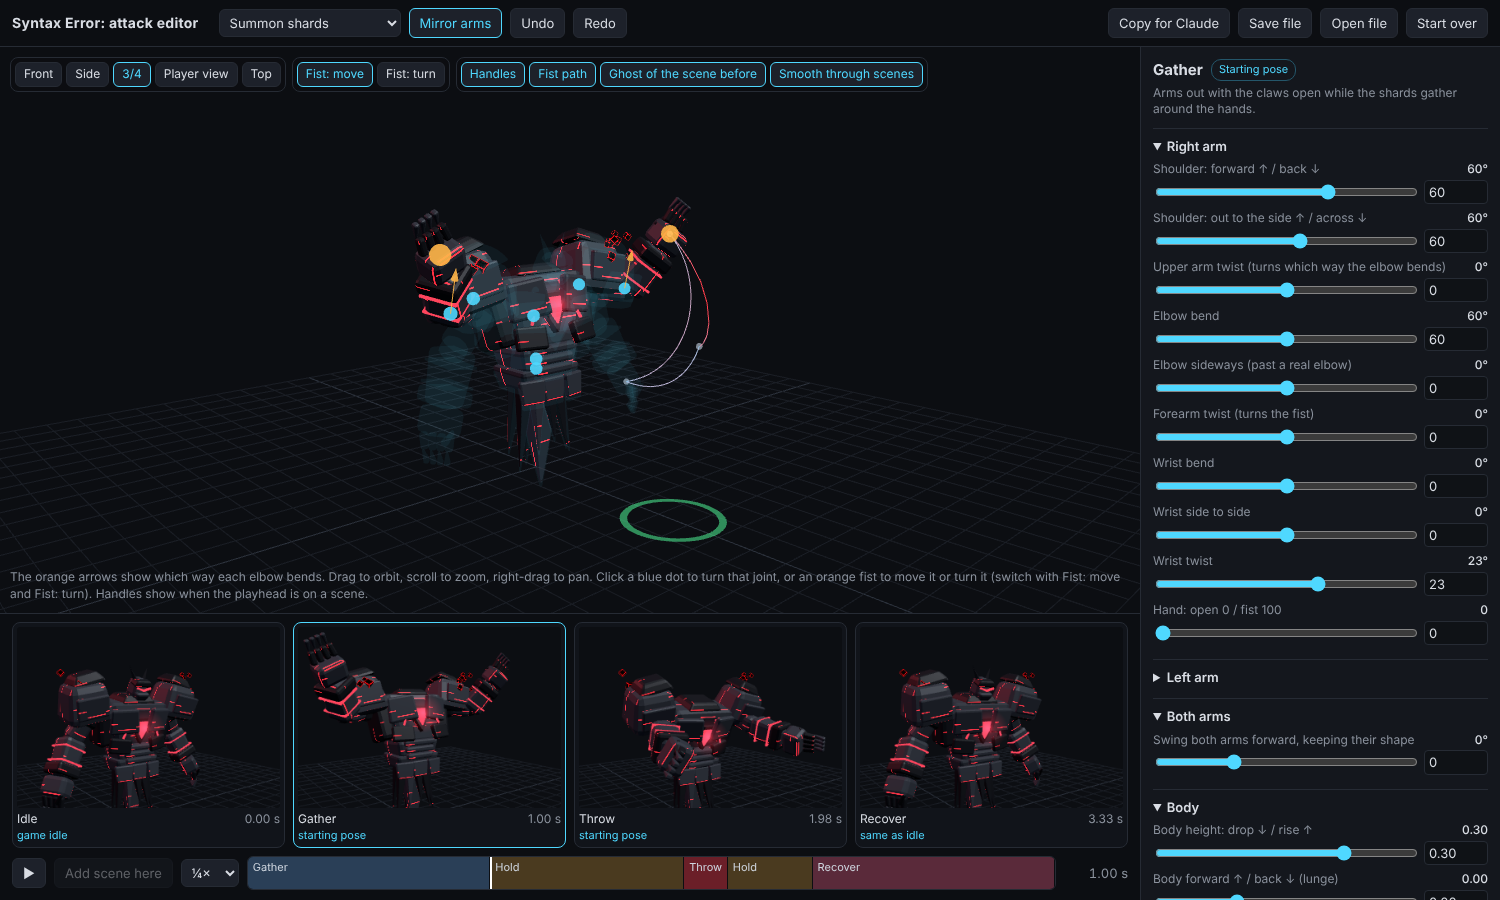
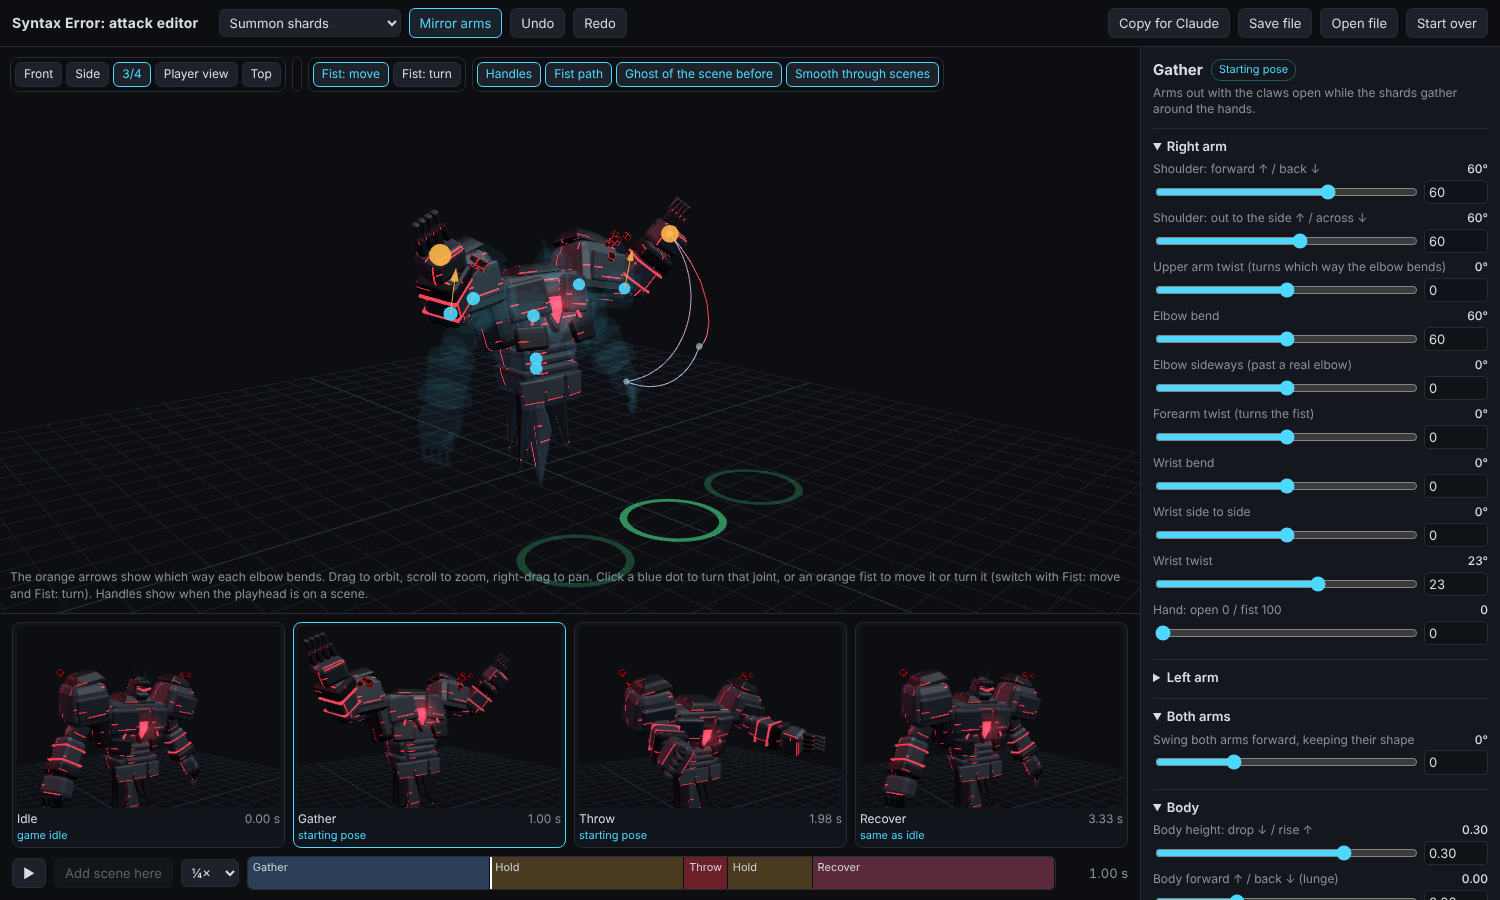
Attack editor: arm cannon is one shot, aimed higher, with Aim at
The cannon charges and fires once per attack. The game turns the whole boss toward the
group it picked; Aim at (your left, middle, your right) previews that, with the side
groups' rings in the view. The aim is raised (shoulder 63, across 38) so the shot meets
the raid about 2.5 units up instead of the floor short of it, and a dashed line shows
where it goes.

Claude-Session: https://claude.ai/code/session_01MQWzxTE7u1eeEzMzyN6zb9

diff --git a/tools/pose-editor/index.html b/tools/pose-editor/index.html
@@ -13,6 +13,7 @@
 <style>
   :root { --bg: #0c0e12; --panel: #14171d; --line: #262b34; --ink: #d9dde4; --dim: #8a919c; --red: #ff3a46; --cyan: #4fd8ff; --amber: #ffb547; --green: #48e08a; }
   * { box-sizing: border-box; }
+  [hidden] { display: none !important; }
   html, body { margin: 0; height: 100%; background: var(--bg); color: var(--ink); font: 13px/1.4 ui-sans-serif, system-ui, "Segoe UI", sans-serif; }
   button, select, input { font: inherit; color: inherit; }
   select { background: #1d212a; border: 1px solid var(--line); border-radius: 6px; padding: 4px 6px; }
@@ -95,7 +96,8 @@
         <button data-cam="front">Front</button><button data-cam="side">Side</button><button data-cam="three">3/4</button><button data-cam="player">Player view</button><button data-cam="top">Top</button>
       </div>
       <div class="grp">
-        <button id="fMove" class="on" title="Drag the fist and the arm reaches for it">Fist: move</button><button id="fTurn" title="Turn the fist with the forearm and wrist">Fist: turn</button></div>
+        <span id="aimGrp" hidden style="display:contents"><button data-aim="-1">Aim: your left</button><button data-aim="0" class="on">Aim: middle</button><button data-aim="1">Aim: your right</button></span></div>
+      <div class="grp"><button id="fMove" class="on" title="Drag the fist and the arm reaches for it">Fist: move</button><button id="fTurn" title="Turn the fist with the forearm and wrist">Fist: turn</button></div>
       <div class="grp"><button id="tgHandles" class="on">Handles</button><button id="tgPath" class="on">Fist path</button><button id="tgGhost" class="on">Ghost of the scene before</button><button id="tgSmooth" title="One smooth curve through all the scenes, so frames between scenes follow the scenes around them">Smooth through scenes</button>
       </div>
     </div>
@@ -157,6 +159,9 @@ const grid = new THREE.GridHelper(60, 30, '#2c323c', '#1a1e25'); scene.add(grid)
 // where the raid stands, so the punch has something to land on
 const raid = new THREE.Mesh(new THREE.RingGeometry(2.4, 2.8, 48), new THREE.MeshBasicMaterial({ color: '#48e08a', side: THREE.DoubleSide, transparent: true, opacity: 0.6 }));
 raid.rotation.x = -Math.PI / 2; raid.position.set(0, 0.03, 11); scene.add(raid);
+// the groups on your left and right, for the cannon's aim (x is to your right seen from the raid)
+const GROUP_X = 7;
+const sideRings = [-GROUP_X, GROUP_X].map(x => { const m = raid.clone(); m.material = raid.material.clone(); m.material.opacity = 0.25; m.position.x = x; scene.add(m); return m; });
 
 const camera = new THREE.PerspectiveCamera(35, 1, 0.1, 400);
 const orbit = new OrbitControls(camera, renderer.domElement);
@@ -358,29 +363,24 @@ const ATTACKS = {
     }),
   },
   cannon: {
-    name: 'Arm cannon', main: 'charge', mirror: false, orb: true,
+    name: 'Arm cannon', main: 'charge', mirror: false, orb: true, aim: true,
+    // one shot per attack: the game turns the whole boss toward the group it picked (Aim at in the
+    // view previews that) and plays the same charge and shot
     scenes: [
       { id: 'idle', name: 'Idle', note: 'The resting pose between attacks, shared by all four. Changing it here changes it for every attack.' },
-      { id: 'charge', name: 'Charge: middle', note: 'Aims low at the middle group and charges the orb at the hand.' },
-      { id: 'fire', name: 'Fire', note: 'The shot at the middle group and its recoil. The auto side shots take the same recoil from their own aim.' },
-      { id: 'aimL', name: 'Aim: your left', note: 'Turns to the group on your left (seen from the player\'s side) and charges again.' },
-      { id: 'fireL', name: 'Fire: your left', note: 'The shot at your left group. Auto is the left aim with the same recoil as Fire.' },
-      { id: 'aimR', name: 'Aim: your right', note: 'Turns to the group on your right and charges again.' },
-      { id: 'fireR', name: 'Fire: your right', note: 'The shot at your right group. Auto is the right aim with the same recoil as Fire.' },
+      { id: 'charge', name: 'Charge', note: 'Raises the cannon arm, aims at the group and charges the orb at the hand. Aim at (top of the view) turns the boss to the other groups.' },
+      { id: 'fire', name: 'Fire', note: 'The shot and its recoil.' },
       { id: 'recover', name: 'Recover', note: 'Where it ends up after the attack. Auto is the idle pose; set it by hand and the game settles back to idle from there.' },
     ],
-    segs: [['idle', 'charge', 'inOut', 'aim', 'spark'], ['charge', 'charge', 'out', 'charge', 'grow'], ['charge', 'fire', 'out3', 'shot', 'fire'], ['fire', 'aimL', 'inOut', 'turn', 'spark'], ['aimL', 'aimL', 'out', 'charge2', 'grow'], ['aimL', 'fireL', 'out3', 'shot', 'fire'], ['fireL', 'aimR', 'inOut', 'turn', 'spark'], ['aimR', 'aimR', 'out', 'charge2', 'grow'], ['aimR', 'fireR', 'out3', 'shot', 'fire'], ['fireR', 'recover', 'inOut', 'recover']],
-    segName: { aim: 'Aim', charge: 'Charge', shot: 'Fire', turn: 'Turn', charge2: 'Charge', recover: 'Recover' },
-    timing: { aim: 0.9, charge: 1.4, shot: 0.12, turn: 0.5, charge2: 0.8, recover: 1.0 },
-    timeRows: [['aim', 'Raise and aim', 0.2, 3], ['charge', 'First charge', 0.2, 6], ['shot', 'Shot and recoil', 0.04, 0.6], ['turn', 'Turn to the next group', 0.1, 2], ['charge2', 'Later charges', 0.1, 4], ['recover', 'Recover', 0.2, 2.5]],
+    segs: [['idle', 'charge', 'inOut', 'aim', 'spark'], ['charge', 'charge', 'out', 'charge', 'grow'], ['charge', 'fire', 'out3', 'shot', 'fire'], ['fire', 'fire', 'out', 'freeze'], ['fire', 'recover', 'inOut', 'recover']],
+    segName: { aim: 'Aim', charge: 'Charge', shot: 'Fire', freeze: 'Hold', recover: 'Recover' },
+    timing: { aim: 0.9, charge: 1.6, shot: 0.12, freeze: 0.4, recover: 1.0 },
+    timeRows: [['aim', 'Raise and aim', 0.2, 3], ['charge', 'Charge', 0.2, 6], ['shot', 'Shot and recoil', 0.04, 0.6], ['freeze', 'Hold after the shot', 0, 1.5], ['recover', 'Recover', 0.2, 2.5]],
     feel: { lead: 0.05 },
     defaults: () => ({
-      charge: cannonAim(50, -25, 0.3),
-      fire: sheet({ shoulderR: { flex: 62, abd: -25 }, elbowR: { flex: 10 }, ...BRACE, raw: { chest: [0.1, 0.25, 0], spine: [0.2, 0.125, 0], head: [-0.4, -0.25, 0], clawR: [-0.3, 0, 0], clawL: [0.6, 0, 0] }, hips: -0.3 }),
-      aimL: cannonAim(50, 5, 0.05),
-      aimR: cannonAim(50, -40, 0.62),
+      charge: cannonAim(63, -38, 0.3),
+      fire: sheet({ shoulderR: { flex: 75, abd: -38 }, elbowR: { flex: 10 }, ...BRACE, raw: { chest: [0.1, 0.25, 0], spine: [0.2, 0.125, 0], head: [-0.4, -0.25, 0], clawR: [-0.3, 0, 0], clawL: [0.6, 0, 0] }, hips: -0.3 }),
     }),
-    autos: { fireL: R => plus(R.aimL, R.fire, R.charge), fireR: R => plus(R.aimR, R.fire, R.charge) },
   },
   summon: {
     name: 'Summon shards', main: 'gather', mirror: true,
@@ -407,6 +407,8 @@ function useAttack(id) {
   DEF = ATTACKS[id];
   const A = store.attacks[id];
   // scenes added in the editor split a stretch of the timeline in two (A.segs replaces DEF.segs)
+  const known = new Set([...DEF.scenes.map(x => x.id), ...(A.extra || []).map(x => x.id)]);
+  if (A.segs && A.segs.some(sg => !known.has(sg[0]) || !known.has(sg[1]))) { delete A.segs; delete A.extra; delete A.segName; }
   SEGS = A.segs || DEF.segs; SEG_NAME = { ...DEF.segName, ...(A.segName || {}) };
   const labels = [...new Set(Object.values(DEF.segName))];
   SEG_COL = {}; for (const k in SEG_NAME) SEG_COL[k] = SEG_COLS[labels.indexOf(SEG_NAME[k]) % SEG_COLS.length] || SEG_COLS[0];
@@ -605,12 +607,25 @@ function poseAt(target, t, lead = state.feel.lead) {
   for (const bn in Bt) blendInto(Bt[bn], TORSO.has(bn) ? xb : xa, bn);
   if (target === kit) setOrb(xa);
   Bt.hips.position.y = S.hover + val(xb, 'hips'); Bt.hips.position.z = val(xb, 'move') || 0;
+  target.group.rotation.y = yawAt(xa);
 }
 // the cannon's orb at the right hand: a spark while aiming, growing while it charges, a flash on the shot
 const orb = new THREE.Mesh(new THREE.SphereGeometry(1, 24, 16), new THREE.MeshBasicMaterial({ color: '#ff4a64' }));
 const orbHalo = new THREE.Mesh(new THREE.SphereGeometry(1, 24, 16), new THREE.MeshBasicMaterial({ color: '#ff2040', transparent: true, opacity: 0.22, depthWrite: false }));
 orb.add(orbHalo); orbHalo.scale.setScalar(1.7); orb.userData.jcSkip = orbHalo.userData.jcSkip = true;
 orb.position.set(0, -S.fist * 1.25, 0); B.handR.add(orb); orb.visible = false;
+// where the shot goes: a line from the orb along the forearm while the cannon is up
+const aimLine = new THREE.Line(new THREE.BufferGeometry().setFromPoints([new THREE.Vector3(), new THREE.Vector3()]), new THREE.LineDashedMaterial({ color: '#ff4a64', dashSize: 0.8, gapSize: 0.5, transparent: true, opacity: 0.8 }));
+aimLine.visible = false; scene.add(aimLine);
+function updateAimLine() {
+  aimLine.visible = !!DEF.aim && orb.visible;
+  if (!aimLine.visible) return;
+  kit.group.updateMatrixWorld(true);
+  const e = new THREE.Vector3(), h = new THREE.Vector3(); B.foreR.getWorldPosition(e); orb.getWorldPosition(h);
+  const d = h.clone().sub(e).normalize(), end = h.clone().add(d.multiplyScalar(40));
+  if (end.y < 0) end.lerpVectors(h, end, h.y / (h.y - end.y));   // stop at the floor
+  aimLine.geometry.setFromPoints([h, end]); aimLine.computeLineDistances();
+}
 function setOrb(x) {
   if (!DEF.orb || !x || !x.fx) { orb.visible = false; return; }
   const r = x.fx === 'grow' ? 0.3 + 1.4 * x.fu : x.fx === 'fire' ? (x.fu < 0.3 ? 2.2 : 1.6 * (1 - x.fu)) : 0.25 * x.fu;
@@ -621,6 +636,7 @@ function poseKey(target, id) {
   if (target === kit) setOrb(id === 'charge' || id === 'aimL' || id === 'aimR' ? { fx: 'grow', fu: 1 } : null);
   for (const bn in Bt) Bt[bn].rotation.set(...(Pk[bn] || IDLE[bn] || [0, 0, 0]));
   Bt.hips.position.y = S.hover + (Pk._hips || 0); Bt.hips.position.z = Pk._move || 0;
+  target.group.rotation.y = DEF.aim && id !== 'idle' && id !== 'recover' ? aimYaw() : 0;
 }
 
 // ---------- handles ----------
@@ -814,6 +830,11 @@ function sceneAt(t) { const m = marks(); let best = 'idle'; for (const s of SCEN
 
 // ---------- panel ----------
 let dirty = true; const need = () => { dirty = true; };
+// which group the cannon aims at in the preview: -1 your left, 0 middle, 1 your right. The whole
+// boss turns to face it while it raises the cannon and turns back as it recovers.
+let aimAt = 0;
+const aimYaw = () => Math.atan2(aimAt * GROUP_X, raid.position.z);
+function yawAt(x) { const w = id => (id === 'idle' || id === 'recover' ? 0 : 1); return DEF.aim ? aimYaw() * (w(x.a) + (w(x.b) - w(x.a)) * x.k) : 0; }
 let cur = 'strike', time = 0, playing = false, showHandles = true, showPath = true, showGhost = true;
 const groups = ['Right arm', 'Left arm', 'Both arms', 'Body'];
 function buildFields() {
@@ -1014,7 +1035,7 @@ function exportText() {
     o._hips = Math.round((p._hips || 0) * 100) / 100; o._move = Math.round((p._move || 0) * 100) / 100; poses[id] = o;
   }
   const scenes = {}; for (const id of EDITABLE) { const sc = sceneState(id); scenes[id] = { auto: !!sc.auto, edited: !sc.auto && !!sc.spec, spec: round(R[id]) }; }
-  return JSON.stringify({ tool: 'syntax-punch-editor', v: 2, hands: 2, attack: store.attack, name: DEF.name, blend: store.smooth ? 'Catmull-Rom curve through all scenes: shoulders on quaternions, the rest on the editor values (elbows and wrists by bend, side and twist)' : 'per stretch: shoulders slerp, the rest on the editor values', idleSharedByAllAttacks: true, timing: state.timing, feel: state.feel, segments: SEGS, addedScenes: state.extra || [], scenes, poses }, null, 1);
+  return JSON.stringify({ tool: 'syntax-punch-editor', v: 2, hands: 2, attack: store.attack, name: DEF.name, blend: store.smooth ? 'Catmull-Rom curve through all scenes: shoulders on quaternions, the rest on the editor values (elbows and wrists by bend, side and twist)' : 'per stretch: shoulders slerp, the rest on the editor values', idleSharedByAllAttacks: true, timing: state.timing, feel: state.feel, ...(DEF.aim ? { aim: { turn: 'whole boss turns to face the picked group while it raises the cannon, back on recover', groupsAt: { left: [-GROUP_X, 0, 11], middle: [0, 0, 11], right: [GROUP_X, 0, 11] }, yawDeg: +(Math.atan2(GROUP_X, 11) * R2D).toFixed(1) } } : {}), segments: SEGS, addedScenes: state.extra || [], scenes, poses }, null, 1);
 }
 function dialog(msg, text) { $('dlgMsg').textContent = msg; $('dlgText').value = text; $('dlg').showModal(); $('dlgText').select(); }
 $('dlgClose').onclick = () => $('dlg').close();
@@ -1110,6 +1131,7 @@ function frame() {
   if (renderer.domElement.width !== Math.floor(w * pr) || renderer.domElement.height !== Math.floor(h * pr)) {
     renderer.setSize(w, h, false); camera.aspect = w / h; camera.updateProjectionMatrix();
   }
+  updateAimLine();
   renderer.render(scene, camera);
 }
 
@@ -1161,11 +1183,13 @@ $('addScene').onclick = () => { commit(); addSceneAt(time); };
 $('delScene').onclick = () => { commit(); deleteScene(cur); };
 
 // ---------- switching attacks ----------
+document.querySelectorAll('[data-aim]').forEach(bt => bt.onclick = () => { aimAt = +bt.dataset.aim; document.querySelectorAll('[data-aim]').forEach(x => x.classList.toggle('on', x === bt)); sideRings.forEach((r, i) => { r.material.opacity = aimAt === (i ? 1 : -1) ? 0.6 : 0.25; }); raid.material.opacity = aimAt === 0 ? 0.6 : 0.25; for (const k in thumbKey) delete thumbKey[k]; refreshSoon(); need(); });
 function syncMirror() { $('mirror').classList.toggle('on', !!state.mirror); $('tgSmooth').classList.toggle('on', !!store.smooth); }
 $('mirror').onclick = () => { state.mirror = !state.mirror; syncMirror(); commit(); };
 for (const [k, a] of Object.entries(ATTACKS)) { const o = document.createElement('option'); o.value = k; o.textContent = a.name; $('attack').appendChild(o); }
 function switchTo(id, quietSwitch) {
   store.attack = id; state = store.attacks[id]; useAttack(id); $('attack').value = id;
+  $('aimGrp').hidden = !DEF.aim; kit.group.rotation.y = 0; ghost.group.rotation.y = 0;
   for (const k in thumbKey) delete thumbKey[k];
   timelineProblems = []; cur = DEF.main; time = 0; playing = false; tc.detach(); grab = null;
   buildFeel(); buildCards(); rebuild(); syncMirror();
@@ -1174,7 +1198,7 @@ function switchTo(id, quietSwitch) {
 }
 $('attack').onchange = () => { commit(); switchTo($('attack').value); commit(); };
 $('attack').value = store.attack;
-cur = DEF.main;
+cur = DEF.main; $('aimGrp').hidden = !DEF.aim;
 rebuild(); buildFields(); buildFeel(); buildCards(); buildBar(); syncMirror(); setCam('three');
 time = marks()[cur]; fillFields(); markCards(); poseNow();
 requestAnimationFrame(frame);
@@ -1194,7 +1218,7 @@ window.editor = {
   setEase: (i, e) => { state.segs = SEGS.slice(); state.segs[i] = state.segs[i].slice(); state.segs[i][2] = e; useAttack(store.attack); buildBar(); commit(); },
   ring: () => raid.position.toArray(),
   probeFists: sp => { const Pt = toPose(clampSpec(sp)); for (const bn in B) B[bn].rotation.set(...(Pt[bn] || IDLE[bn] || [0, 0, 0])); B.hips.position.y = S.hover + Pt._hips; B.hips.position.z = Pt._move || 0; kit.group.updateMatrixWorld(true);
-    const v = k => { const w = new THREE.Vector3(); B['hand' + k].localToWorld(w.set(0, -S.fist * 0.5, 0)); return w.toArray(); }; const r = { R: v('R'), L: v('L'), probs: JC.check(rig, '').map(x => x.msg).filter(m => !quiet(m)) }; poseNow(); return r; },
+    const v = k => { const w = new THREE.Vector3(); B['hand' + k].localToWorld(w.set(0, -S.fist * 0.5, 0)); return w.toArray(); }; const e = new THREE.Vector3(); B.foreR.getWorldPosition(e); const r = { eR: e.toArray(), R: v('R'), L: v('L'), probs: JC.check(rig, '').map(x => x.msg).filter(m => !quiet(m)) }; poseNow(); return r; },
   R: () => R, handleWorld: name => { const h = handleMeshes.find(m => m.userData.handle === name), v = new THREE.Vector3(); kit.group.updateMatrixWorld(true); h.getWorldPosition(v); return v.toArray().map(x => +x.toFixed(2)); }, add: t => { time = t; addSceneAt(t); return cur; }, del: id => deleteScene(id), segs: () => SEGS, scenes: () => SCENES.map(x => x.id),
   handleScreen: name => { const h = handleMeshes.find(m => m.userData.handle === name), v = new THREE.Vector3(); h.getWorldPosition(v); v.project(camera); const r = renderer.domElement.getBoundingClientRect(); return [r.left + (v.x + 1) / 2 * r.width, r.top + (1 - v.y) / 2 * r.height]; },
   stateObj: () => state, state: () => state, R: () => R, select, pick, exportText, refresh, checkNow, timelineProblems: () => timelineProblems, setTime: t => { time = t; need(); }, play: on => { playing = on; updatePlay(); } };
